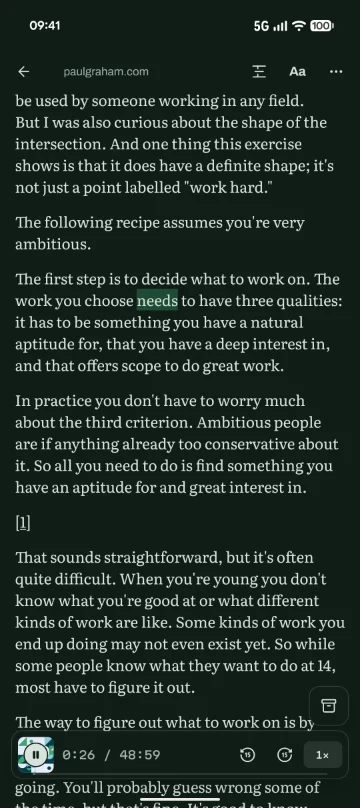
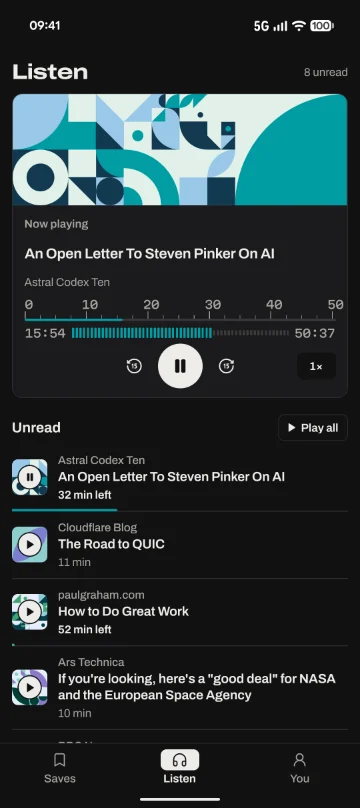
Website: the Listen image is the Listen tab, and the deploy guard lets notes change in place
The fourth app image beside How it works showed the reader with the spoken word lit; Richard wants the Listen tab
(16 October 2026), so app-images.mjs takes 7-listen.png for it, with an alt text to match. The deploy guard no
longer refuses a changed media/SOURCES.md: a note is for people reading the folder, not something a page loads.

diff --git a/apps/web/index.html b/apps/web/index.html
@@ -81,7 +81,7 @@
           <p>Speed reading works by showing words one by one in a fixed spot, aligned so your eyes never have to jump. It pauses at the end of each sentence so the meaning has time to settle.</p>
         </article>
         <article class="step">
-          <img class="shot" src="/src/media/app-listen-360.webp" srcset="/src/media/app-listen-360.webp 360w, /src/media/app-listen-720.webp 720w" sizes="(max-width: 620px) 64vw, (max-width: 1100px) 36vw, 20vw" width="360" height="808" loading="lazy" decoding="async" alt="Kefli reading an article aloud, with the spoken word highlighted and the player at the bottom">
+          <img class="shot" src="/src/media/app-listen-360.webp" srcset="/src/media/app-listen-360.webp 360w, /src/media/app-listen-720.webp 720w" sizes="(max-width: 620px) 64vw, (max-width: 1100px) 36vw, 20vw" width="360" height="808" loading="lazy" decoding="async" alt="Kefli’s Listen tab: the player with an article playing at the top, and the unread articles to listen to beneath">
           <div class="top"><span class="label">Listen</span><svg class="i" viewBox="0 0 24 24" aria-hidden="true"><path d="M3 14h3a2 2 0 0 1 2 2v3a2 2 0 0 1-2 2H5a2 2 0 0 1-2-2v-7a9 9 0 0 1 18 0v7a2 2 0 0 1-2 2h-1a2 2 0 0 1-2-2v-3a2 2 0 0 1 2-2h3"/></svg></div>
           <h3>Listen</h3>
           <p>Any article can be read aloud in your phone's own voice. Lock the screen and keep listening, with the controls on the lock screen.</p>

diff --git a/apps/web/README.md b/apps/web/README.md
@@ -38,4 +38,4 @@ Every download, store and contact link, and the site's own address, comes from `
 
 ## Serving it
 
-`deploy.sh` runs the tests and the typecheck, builds, refuses a page that still holds a `%VITE_…%` placeholder, copies `dist/` to `/var/www/kefli` over SSH (the `kefli` host alias, or `KEFLI_SSH_HOST`), and checks that kefli.app then serves the new `index.html`. It refuses uncommitted changes unless given `--allow-dirty`, refuses a changed file under an existing name in `/assets`, `/media` or `/fonts` (browsers keep those for a year and there is no cache on the server to clear, so a change there must come under a new name), and deletes nothing on the host, so a page cached before a deploy still finds its hashed scripts. Caddy on the operator's host serves that directory on the apex, beside `relay.`, `api.` and `blossom.` (backend spec section 5). Keep the apex's rewrite of `/.well-known/nostr.json` to `keflid` (backend spec, NIP-05) ahead of the file server, and give `/media/` and `/fonts/` and `/assets/` long cache lifetimes: the assets are content-hashed, and the media and fonts change only with their file names.
+`deploy.sh` runs the tests and the typecheck, builds, refuses a page that still holds a `%VITE_…%` placeholder, copies `dist/` to `/var/www/kefli` over SSH (the `kefli` host alias, or `KEFLI_SSH_HOST`), and checks that kefli.app then serves the new `index.html`. It refuses uncommitted changes unless given `--allow-dirty`, refuses a changed file under an existing name in `/assets`, `/media` or `/fonts`, notes such as `SOURCES.md` aside (browsers keep those for a year and there is no cache on the server to clear, so a change there must come under a new name), and deletes nothing on the host, so a page cached before a deploy still finds its hashed scripts. Caddy on the operator's host serves that directory on the apex, beside `relay.`, `api.` and `blossom.` (backend spec section 5). Keep the apex's rewrite of `/.well-known/nostr.json` to `keflid` (backend spec, NIP-05) ahead of the file server, and give `/media/` and `/fonts/` and `/assets/` long cache lifetimes: the assets are content-hashed, and the media and fonts change only with their file names.

diff --git a/apps/web/public/media/SOURCES.md b/apps/web/public/media/SOURCES.md
@@ -25,4 +25,4 @@ The crest profile in the page (`CREST`) is measured from the ridge cut and must 
 
 | File | Made from |
 |---|---|
-| `../../src/media/app-save-*.webp`, `app-read-*.webp`, `app-speed-*.webp`, `app-listen-*.webp` (kept in `src/media`, not here, so the build hashes their names and a new screenshot never sits behind a browser's year-long copy of the old one) | The store screenshots in `apps/mobile/store/screenshots/` (`3-library`, `4-reader`, `5-speedread`, `6-listening`): release 1.0.0 on a Pixel 10a in Android's demo mode, 16 October 2026, the notification shade cleared first. Scaled to 360 and 720 pixels wide as WebP by `apps/web/scripts/app-images.mjs` (headless Chrome). Rerun it after each new set. |
+| `../../src/media/app-save-*.webp`, `app-read-*.webp`, `app-speed-*.webp`, `app-listen-*.webp` (kept in `src/media`, not here, so the build hashes their names and a new screenshot never sits behind a browser's year-long copy of the old one) | The store screenshots in `apps/mobile/store/screenshots/` (`3-library`, `4-reader`, `5-speedread`, `7-listen`): release 1.0.0 on a Pixel 10a in Android's demo mode, 16 October 2026, the notification shade cleared first. Scaled to 360 and 720 pixels wide as WebP by `apps/web/scripts/app-images.mjs` (headless Chrome). Rerun it after each new set. |
